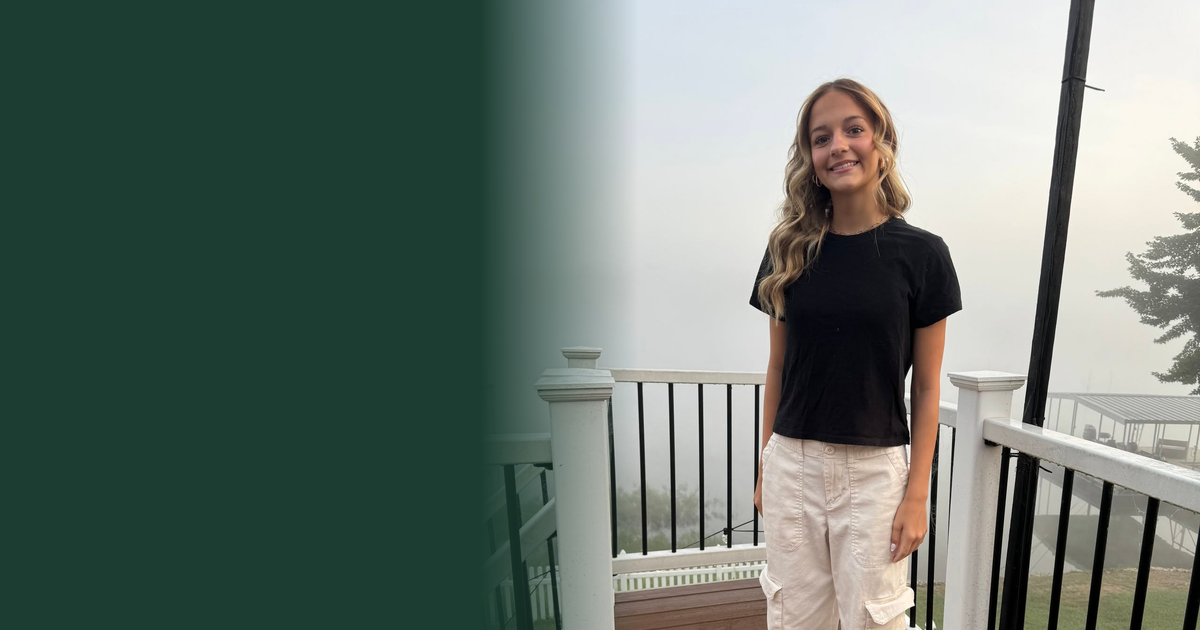
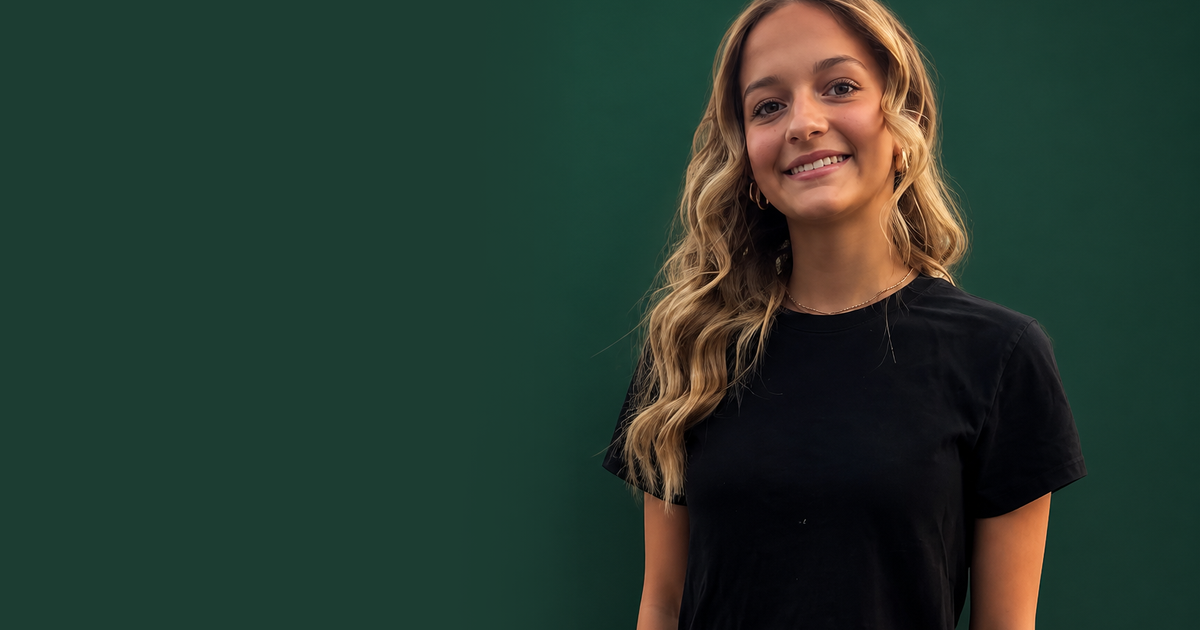
Smooth the OG plate with AI-cleaned hair and a softer green blend.
Drops the choppy cutout/face-paste approach; keeps a lookalike hair cleanup against fairway green without the white glow.

diff --git a/README.md b/README.md
@@ -124,7 +124,7 @@ Cursor rule: `.cursor/rules/domain-cutover-cloudflare.mdc` (fires when you ask t
 - Logo: `public/brand/logo-96.webp` (chrome) · `logo.jpg` / `logo.webp` source
 - Maddy photo: responsive WebP (`maddy-640/960.webp` + `maddy.webp`) with JPEG fallback
 - Favicon / apple-touch: `app/favicon.ico` (16/32/48 from brand logo), `app/icon.png` **192**, `app/apple-icon.png` **180**
-- Open Graph: opaque fairway-green plate with Maddy composited in (no transparent PNG / checkerboard); logo/name on the left; event covers use photo + tent
+- Open Graph: fairway-green plate with AI-cleaned hair edges + smooth blend (no white halo / choppy cutout); logo/name on the left; event covers use photo + tent
 - Footer: Explore + Site columns, Privacy, optional contact, BraddCorp credit (LECYC pattern)
 - Type: Literata (display 400/600) + Source Sans 3 (body 400/500) — major-third scale
 - Performance: public home/events ISR (60s; register 30s); admin/register writes call `revalidatePublicEvents`; hero WebP preloaded; logo not priority; `/brand/*` long-cache
